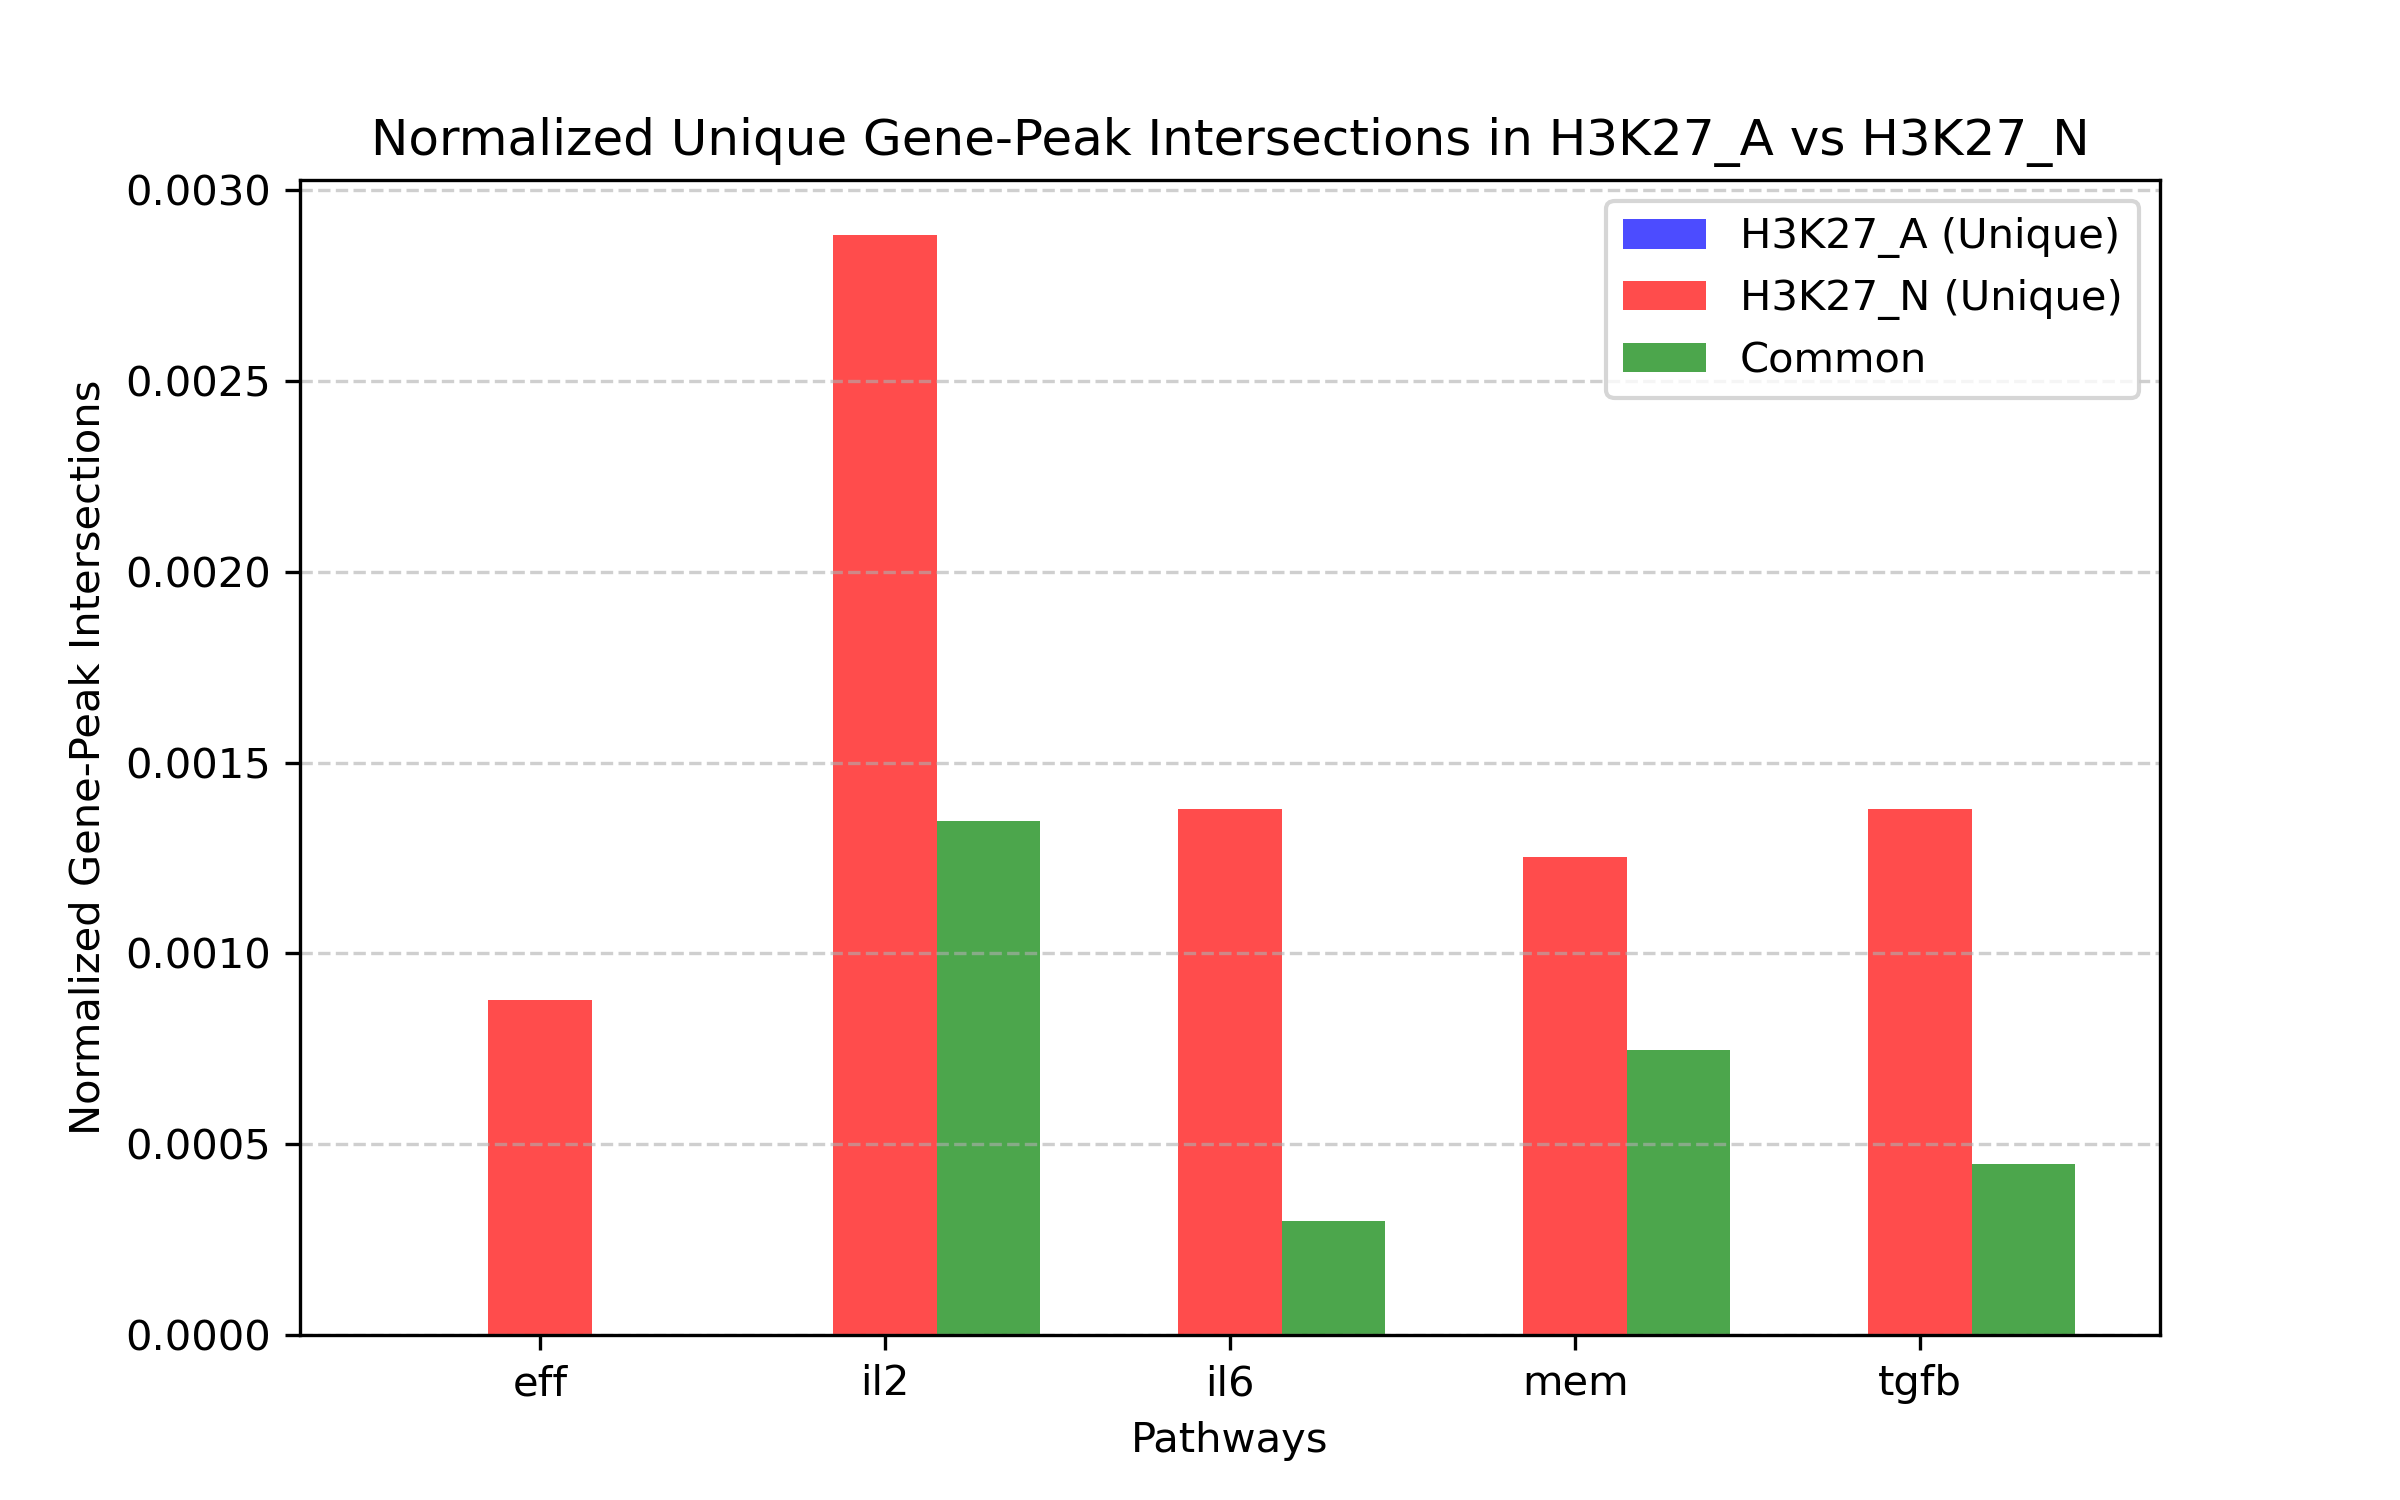
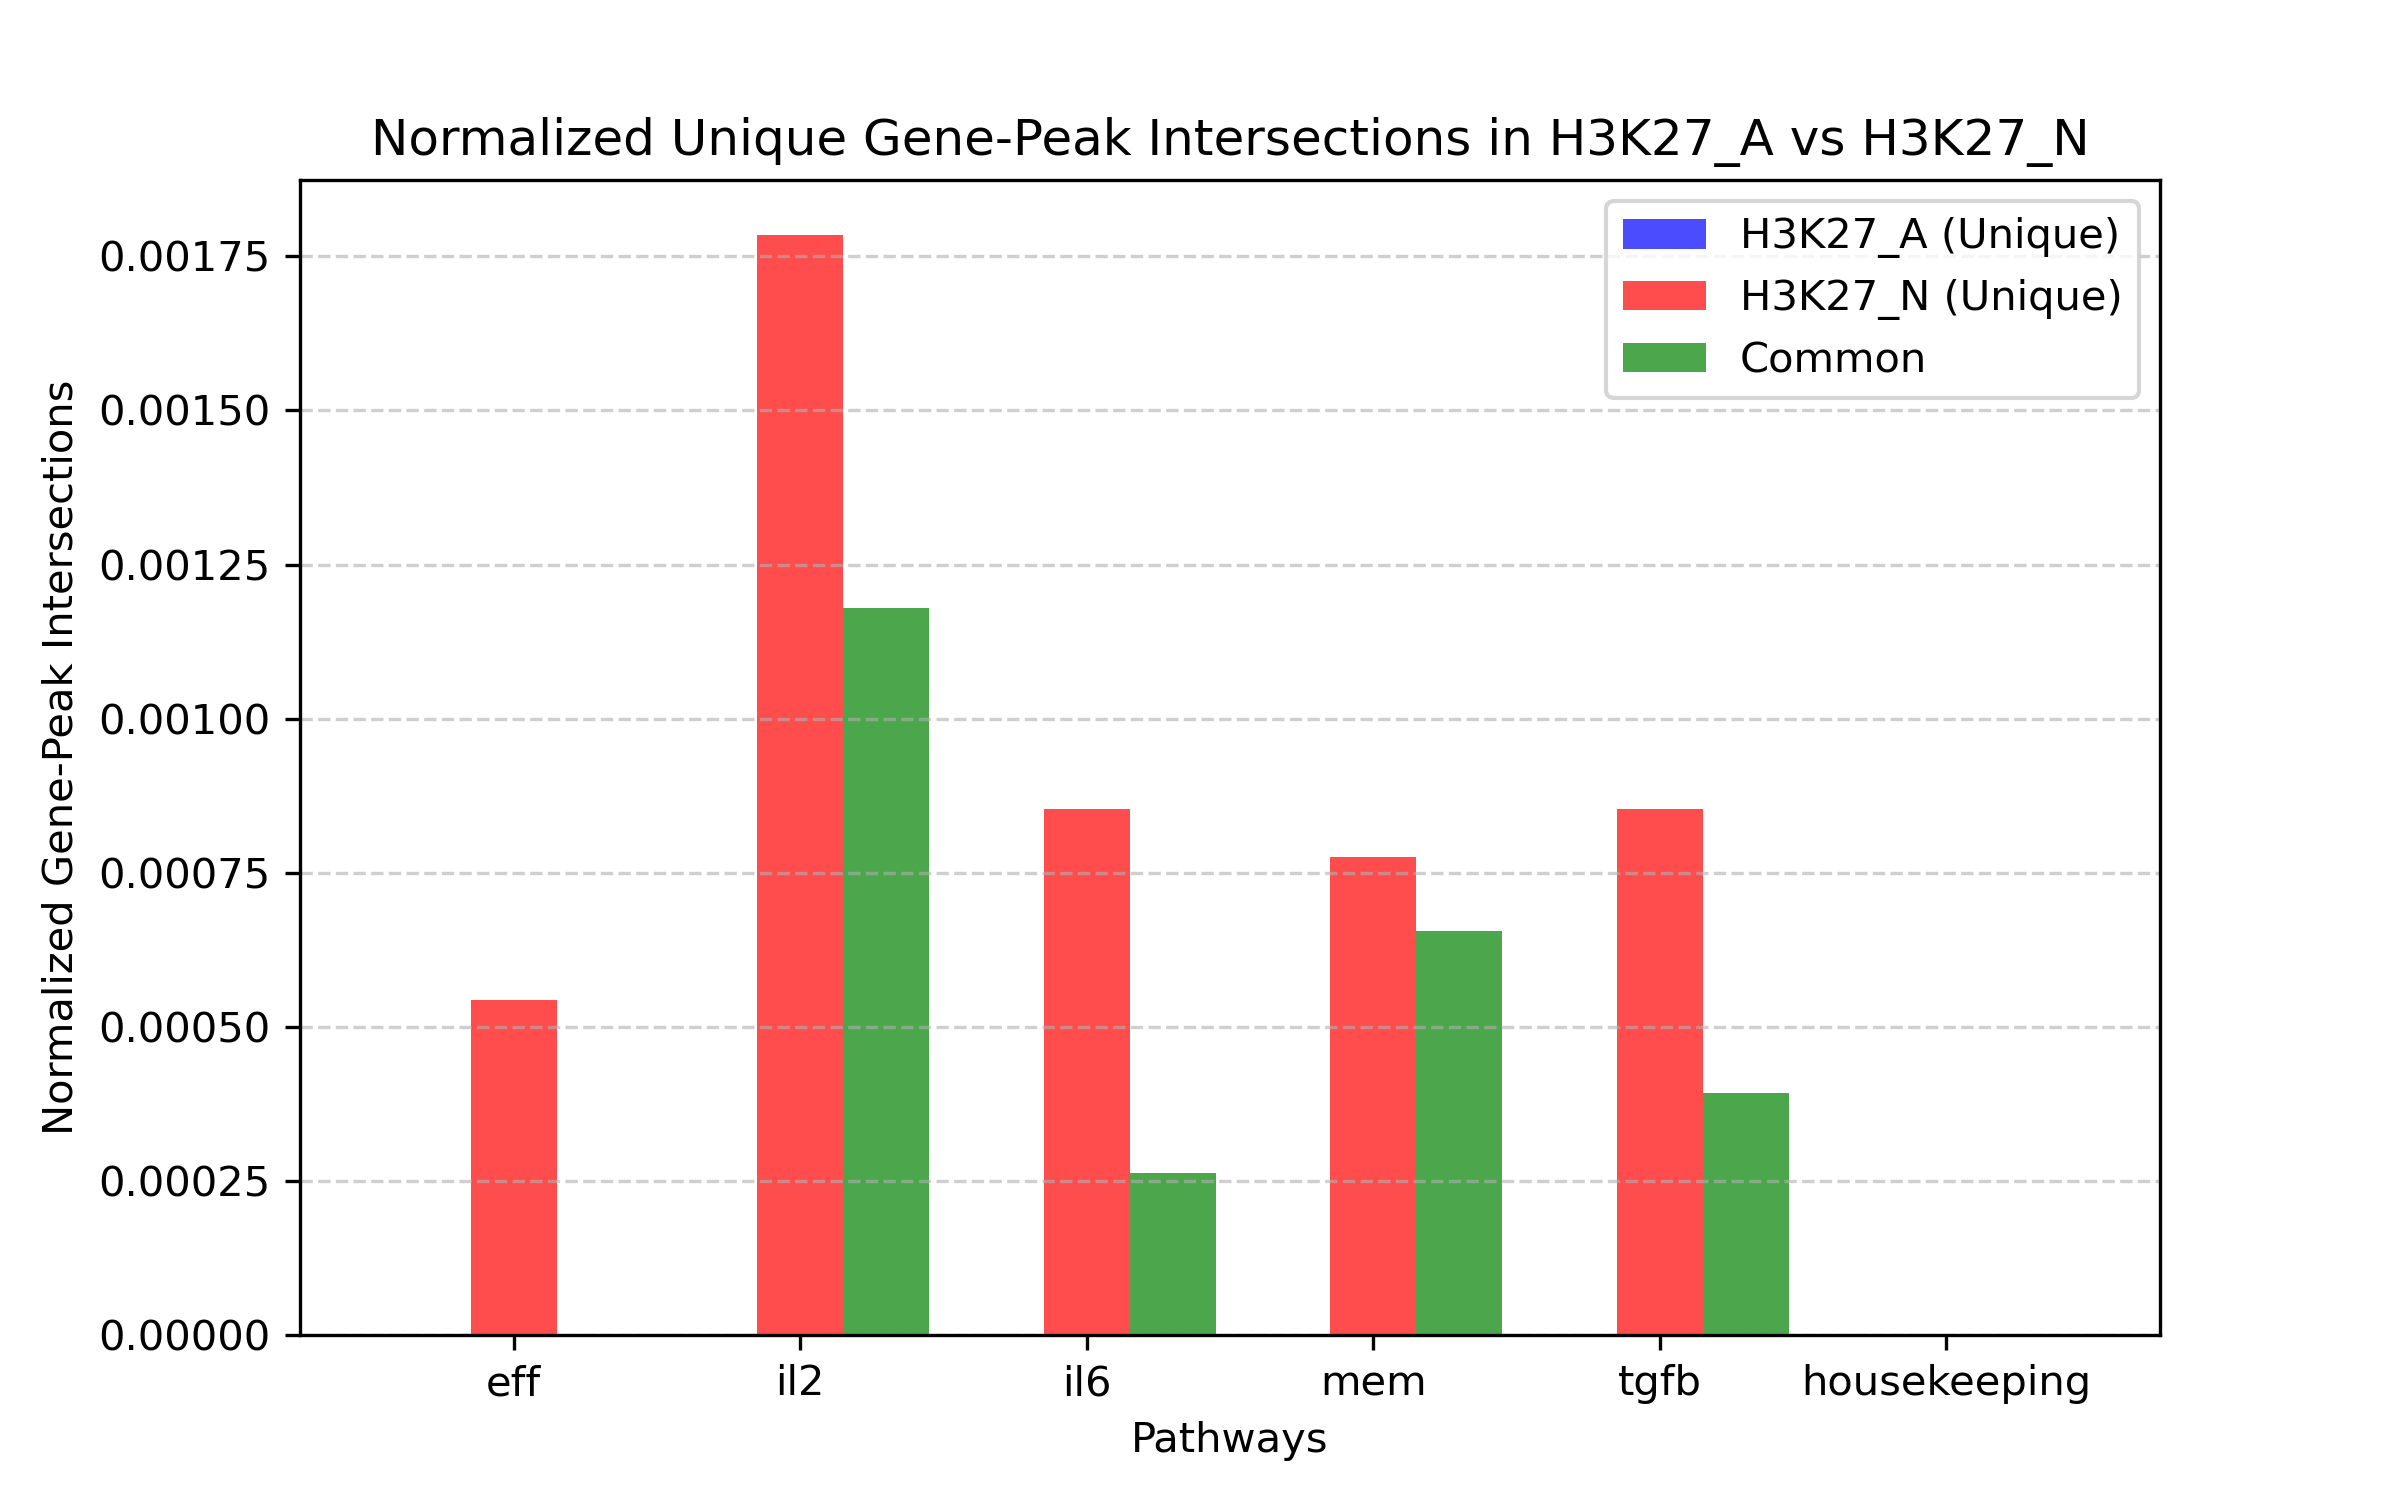
added housekeeping gene peaks analysis

diff --git a/downstream/gene_signatures/H3K4/barplots_normalized.py b/downstream/gene_signatures/H3K4/barplots_normalized.py
@@ -3,10 +3,10 @@ import matplotlib.pyplot as plt
 import numpy as np
 
 # Directory containing the BED files
-bed_dir = "/home/me1117/cutrun/gene_signatures/H3K4"  
+bed_dir = "/home/me1117/cutrun/downstream/gene_signatures/H3K4"
 
 # Define pathway pairs
-pathways = ["eff", "il2", "il6", "mem", "tgfb", "tcr"]
+pathways = ["eff", "il2", "il6", "mem", "tgfb", "tcr", "housekeeping"]
 file_pairs = [(f"H3K4_A_{p}_peaks_gene_intersections.bed", f"H3K4_N_{p}_peaks_gene_intersections.bed", p) for p in pathways]
 
 # Define total peaks for normalization
@@ -80,10 +80,10 @@ plt.show()
 
 ## older version
 # Directory containing the BED files
-bed_dir = "/home/me1117/cutrun/gene_signatures/H3K4"  
+bed_dir = "/home/me1117/cutrun/downstream/gene_signatures/H3K4"
 
 # Define pathway pairs
-pathways = ["eff", "il2", "il6", "mem", "tgfb", 'tcr']
+pathways = ["eff", "il2", "il6", "mem", "tgfb", "tcr", "housekeeping"]
 file_pairs = [(f"H3K4_A_{p}_peaks_gene_intersections.bed", f"H3K4_N_{p}_peaks_gene_intersections.bed", p) for p in pathways]
 
 # Define total peaks for normalization

diff --git a/downstream/gene_signatures/H3K27/venn_diagram.py b/downstream/gene_signatures/H3K27/venn_diagram.py
@@ -3,10 +3,10 @@ import matplotlib.pyplot as plt
 from matplotlib_venn import venn2
 
 # Directory containing the BED files
-bed_dir = "/home/me1117/cutrun/gene_signatures/H3K27" 
+bed_dir = "/home/me1117/cutrun/downstream/gene_signatures/H3K27"
 
 # Define pathway pairs
-pathways = ["eff", "il2", "il6", "mem", "tgfb"]
+pathways = ["eff", "il2", "il6", "mem", "tgfb", "housekeeping"]
 file_pairs = [(f"H3K27_A_{p}_peaks_gene_intersections.bed", f"H3K27_N_{p}_peaks_gene_intersections.bed", p) for p in pathways]
 
 # Function to extract gene names from the 4th column of a BED file

diff --git a/downstream/gene_signatures/H3K4/venn_diagram.py b/downstream/gene_signatures/H3K4/venn_diagram.py
@@ -3,10 +3,10 @@ import matplotlib.pyplot as plt
 from matplotlib_venn import venn2
 
 # Directory containing the BED files
-bed_dir = "/home/me1117/cutrun/genes_signatures/H3K4" 
+bed_dir = "/home/me1117/cutrun/downstream/gene_signatures/H3K4"
 
 # Define pathway pairs
-pathways = ["eff", "il2", "il6", "mem", "tgfb"]
+pathways = ["eff", "il2", "il6", "mem", "tgfb", "housekeeping"]
 file_pairs = [(f"H3K4_A_{p}_peaks_gene_intersections.bed", f"H3K4_N_{p}_peaks_gene_intersections.bed", p) for p in pathways]
 
 # Function to extract gene names from the 4th column of a BED file

diff --git a/downstream/gene_signatures/H3K27/barplots_normalized.py b/downstream/gene_signatures/H3K27/barplots_normalized.py
@@ -3,10 +3,10 @@ import matplotlib.pyplot as plt
 import numpy as np
 
 # Directory containing the BED files
-bed_dir = "/home/me1117/cutrun/gene_signatures/H3K27"  
+bed_dir = "/home/me1117/cutrun/downstream/gene_signatures/H3K27"
 
 # Define pathway pairs
-pathways = ["eff", "il2", "il6", "mem", "tgfb"]
+pathways = ["eff", "il2", "il6", "mem", "tgfb", "housekeeping"]
 file_pairs = [(f"H3K27_A_{p}_peaks_gene_intersections.bed", f"H3K27_N_{p}_peaks_gene_intersections.bed", p) for p in pathways]
 
 # Define total peaks for normalization

diff --git a/downstream/gene_signatures/gene_locations.py b/downstream/gene_signatures/gene_locations.py
@@ -117,3 +117,9 @@ output_bed = "genelocs_tcr.bed"
 convert_gene_locs_to_bed(output_file, output_bed)
 
 """
+# housekeeping genes
+json_file = "housekeeping.json"
+output_file = "housekeeping.tsv"
+extract_gene_locations(gtf_file, json_file, output_file)
+output_bed = "genelocs_housekeeping.bed"
+convert_gene_locs_to_bed(output_file, output_bed)
